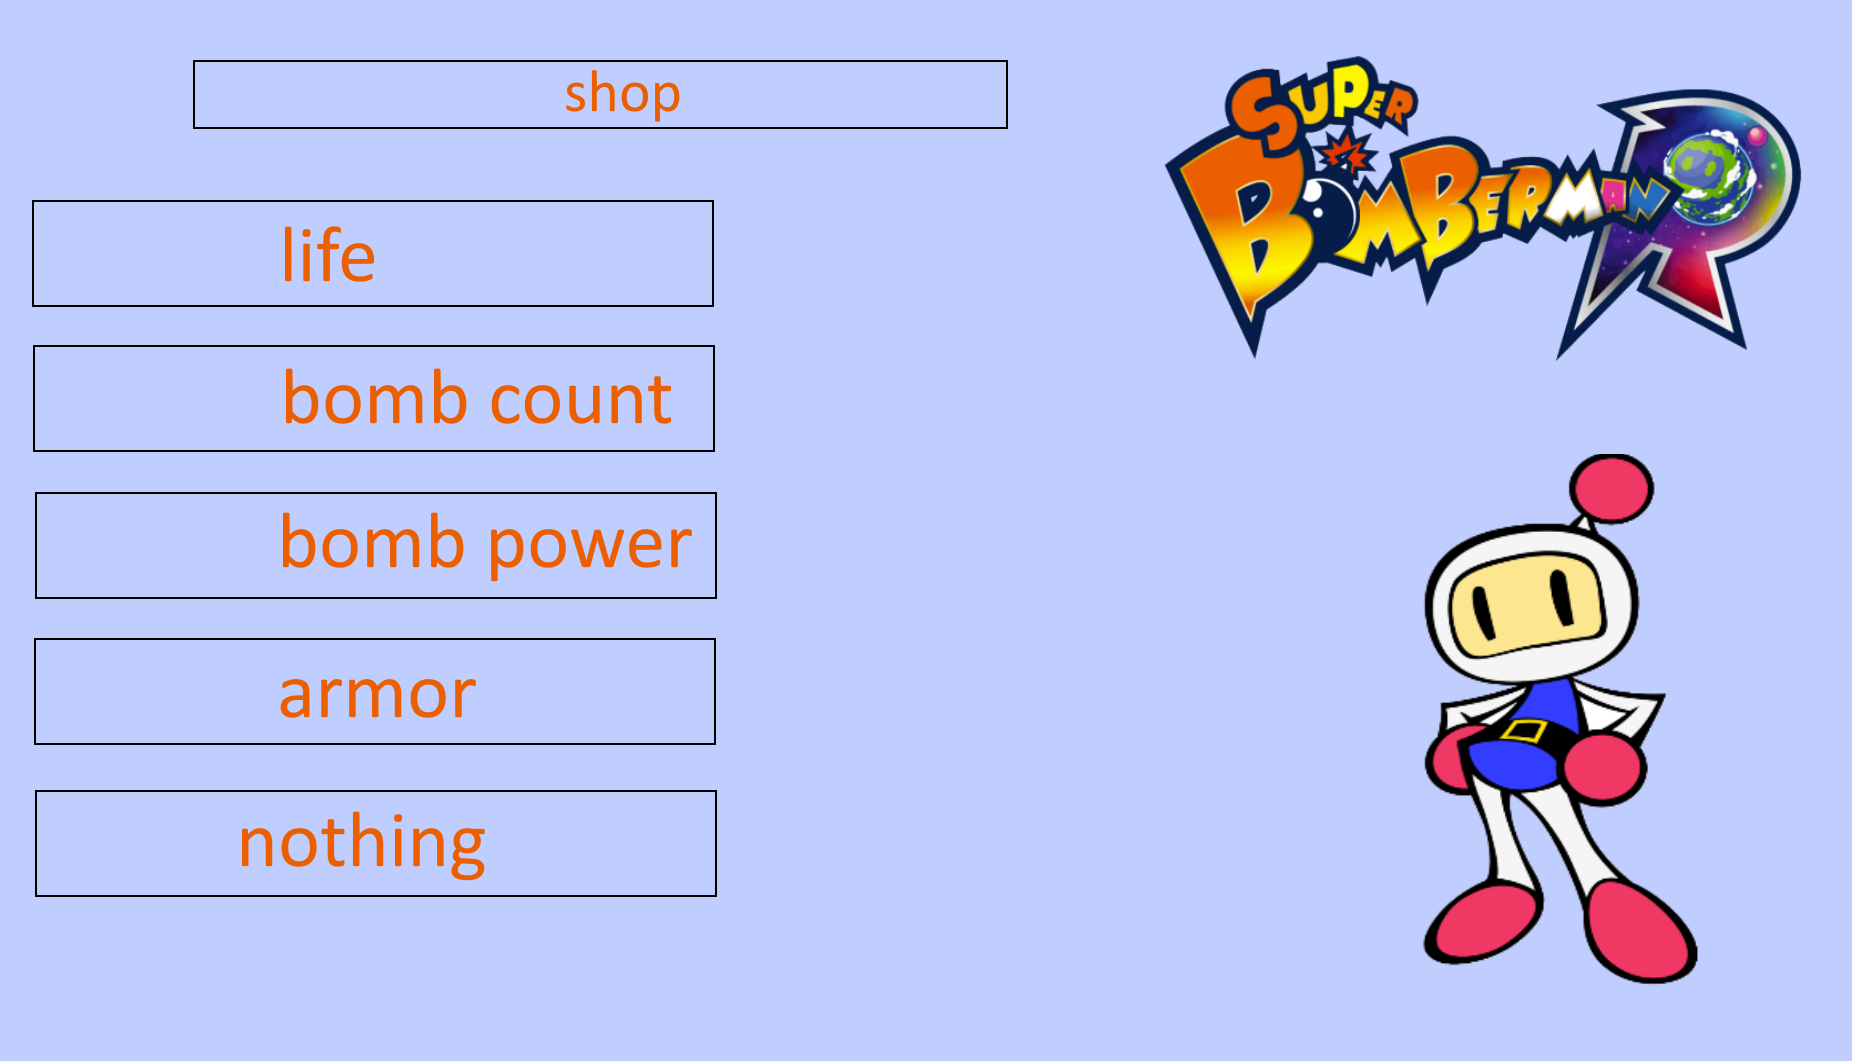
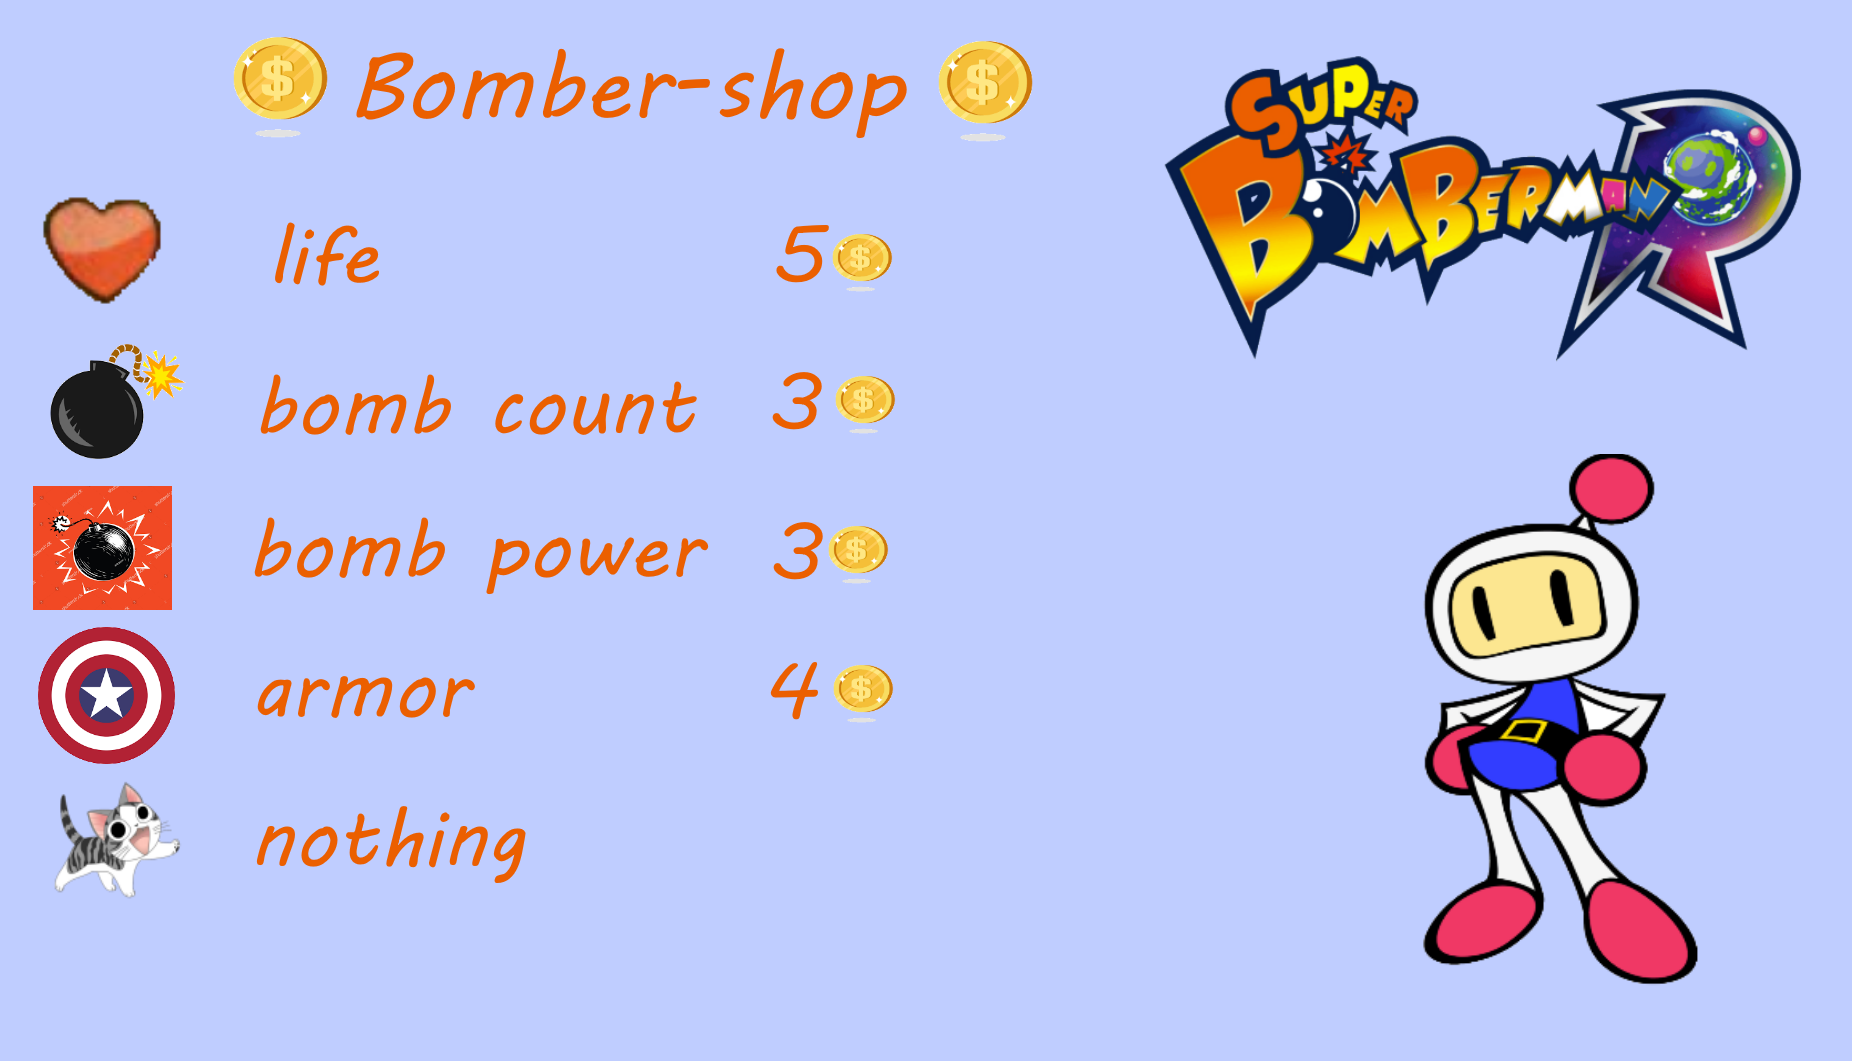
shop v2

diff --git a/Game.Engine/GameEngine.cs b/Game.Engine/GameEngine.cs
@@ -2,6 +2,7 @@
 using System.Collections.Generic;
 using System.IO;
 using System.Linq;
+using System.Runtime.InteropServices;
 
 namespace Ira.Game {
     public class GameEngine {
@@ -72,33 +73,51 @@ namespace Ira.Game {
                             break;
 
                         case ControllerActions.Start:
+                            bool restartShop = false;
                             switch (currentSelectedItem) {
                                 case 0:
-                                    //todo: check and take coins if it has
-                                    player.AddLife();
+                                    if (player.Score >= 5) {
+                                        player.Score -= 5;
+                                        player.AddLife();
+                                    }
+                                    else restartShop = true;
                                     break;
                                 case 1:
-                                    player.AddBomb();
+                                    if (player.Score >= 3) {
+                                        player.Score -= 3;                                   
+                                        player.AddBomb();
+                                    }
+                                    else restartShop = true;
                                     break;
                                 case 2:
-                                    player.AddBombPower();
+                                    if (player.Score >= 3) {
+                                        player.Score -= 3;                                   
+                                        player.AddBombPower();
+                                    }
+                                    else restartShop = true;
                                     break;
                                 case 3:
-                                    player.IsProtected = true;
+                                    if (player.Score >= 4) {
+                                        player.Score -= 4;                                   
+                                        player.IsProtected = true;
+                                    }
+                                    else restartShop = true;
                                     break;
                             }
-                            
-                            if (currentLevel < 5) {
-                                State = GameStates.Game;
-                                currentLevel++;
-                                StartLevel();
-                            }
-                            else {
-                                //no more levels supported
-                                State = GameStates.Start;
-                                Start();
-                            }
 
+                            if (!restartShop) {
+                                if (currentLevel < 5) {
+                                    State = GameStates.Game;
+                                    currentLevel++;
+                                    StartLevel();
+                                }
+                                else {
+                                    //no more levels supported
+                                    State = GameStates.Start;
+                                    Start();
+                                }
+                            }
+                            else Utils.PlaySoundError();
                             break;
                     }
                     break;
@@ -177,7 +196,7 @@ namespace Ira.Game {
         public void Shop() {
             if (currentSelectedItem < 0) currentSelectedItem = 4;
             if (currentSelectedItem > 4) currentSelectedItem = 0;
-            painter.DrawShop(currentSelectedItem);
+            painter.DrawShop(currentSelectedItem, player);
             Utils.PlaySoundMove();
         }
 

diff --git a/Game.Console/Painter.cs b/Game.Console/Painter.cs
@@ -159,7 +159,7 @@ namespace Ira.Game {
             Console.Write("Нажмите Enter для запуска следующего уровня...");
         }
 
-        public void DrawShop(int selectedItem) {
+        public void DrawShop(int selectedItem, Player player) {
             Console.Clear();
             ColorConsole.WriteLine("SHOP", ConsoleColor.Cyan);
             Console.WriteLine();
@@ -168,6 +168,9 @@ namespace Ira.Game {
             ColorConsole.WriteLine("bomb power", selectedItem == 2 ? ConsoleColor.Yellow : ConsoleColor.DarkGray);
             ColorConsole.WriteLine("armor", selectedItem == 3 ? ConsoleColor.Yellow : ConsoleColor.DarkGray);
             ColorConsole.WriteLine("nothing", selectedItem == 4 ? ConsoleColor.Yellow : ConsoleColor.DarkGray);
+            Console.WriteLine();
+            Console.Title =
+                $"{Title} (player position: {player.Position.X} - {player.Position.Y}) Player Score: {player.Score} Player Lives: {player.LivesCount}";
 
         }
 

diff --git a/Game UI/Painter.cs b/Game UI/Painter.cs
@@ -150,11 +150,13 @@ namespace Ira.Game {
             pictureBox.ImageLocation = "./media/win.png";
         }
 
-        public void DrawShop(int selectedItem) {
+        public void DrawShop(int selectedItem, Player player) {
             var image = new Bitmap("./media/shop.png");
+            var score = $"Pomb limit: {player.BombsLimit}; Pomb power: {player.BombPower}; Score: {player.Score}; Lives: {player.LivesCount}; Has armor: {player.IsProtected}";
             using (var g = Graphics.FromImage(image)) {
+                g.DrawString(score, new Font("Tahoma", 20), Brushes.Black, 10, image.Height - 50);
                 DrawImageStretched(g, shopSelectorImage,
-                    new Rectangle(100, 200 + 130 * selectedItem, shopSelectorImage.Width, shopSelectorImage.Height));
+                    new Rectangle(905, 205 + 145 * selectedItem, shopSelectorImage.Width, shopSelectorImage.Height));
             }
             pictureBox.Image = image;
         }

diff --git a/Game.Engine/Classes/Utils.cs b/Game.Engine/Classes/Utils.cs
@@ -47,5 +47,10 @@ namespace Ira.Game {
             player.SoundLocation = ".\\media\\kill.wav";
             player.Play();
         }
+        
+        public static void PlaySoundError() {
+            player.SoundLocation = ".\\media\\error.wav";
+            player.Play();
+        }
     }
 }

diff --git a/Game.Engine/Classes/IPainter.cs b/Game.Engine/Classes/IPainter.cs
@@ -7,6 +7,6 @@ namespace Ira.Game {
         void DrawStart(int selectedItem);
         void DrawLose();
         void DrawWin();
-        void DrawShop(int selectedItem);
+        void DrawShop(int selectedItem, Player player);
     }
 }
